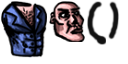
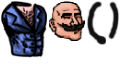
Removed unused assets and updated player texture

Changed region(s): [[0.375, 0.0, 0.6875, 0.6562]]

diff --git a/src/index.js b/src/index.js
@@ -4,12 +4,8 @@ import dragonBones from './plugins/dragonBones.min.js';
 //image paths
 import bgImg from './assets/sky.png';
 
-import head from './assets/head1.png';
-import body from './assets/body1.png';
-
 import tilemap from './assets/test_tilemap.json';
 import tilemapImg from './assets/tile1.png';
-import particleImg from './assets/break-particles.png';
 
 import Player from './objects/player';
 import AnimatedTile from './objects/animatedTile';
@@ -28,9 +24,6 @@ class MyGame extends Phaser.Scene {
     preload() {
         this.load.image('bg', bgImg);
         this.load.tilemapTiledJSON('map', tilemap);
-        
-        this.load.image('head', head);
-        this.load.image('body', body);
 
         this.plugins.installScenePlugin('dragonBones', dragonBones.phaser.plugin.DragonBonesScenePlugin, 'dragonbone', this); 
 
@@ -39,12 +32,6 @@ class MyGame extends Phaser.Scene {
         this.load.spritesheet('tiles', tilemapImg, {
             frameWidth: 64,
             frameHeight: 64,
-            spacing: 0
-        });
-
-        this.load.spritesheet('tileParts', particleImg, {
-            frameWidth: 20,
-            frameHeight: 20,
             spacing: 0
         });
 
@@ -160,7 +147,7 @@ class MyGame extends Phaser.Scene {
             if (tile.properties.pushable) {
                 tile.body.allowDrag = true;
                 tile.body.setAllowDrag(true);
-                tile.body.setDrag(800,300); // set vertical drag to 700 if gravity is disabled
+                tile.body.setDrag(800,300); // set vertical drag to 300 if gravity is disabled
             }
             if (tile.properties.gravity) {
                 tile.body.allowGravity = true;
@@ -235,7 +222,7 @@ class MyGame extends Phaser.Scene {
 
         this.specialTiles.getChildren().forEach(tile => {
             tile.update();
-        })
+        });
 
         if (this.vanishedTiles.length > 0) {
             this.vanishedTiles.forEach((tile, index) => {
